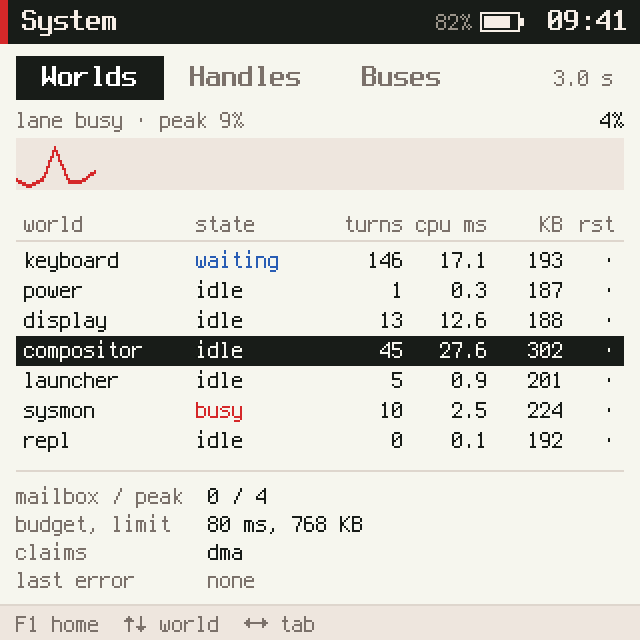
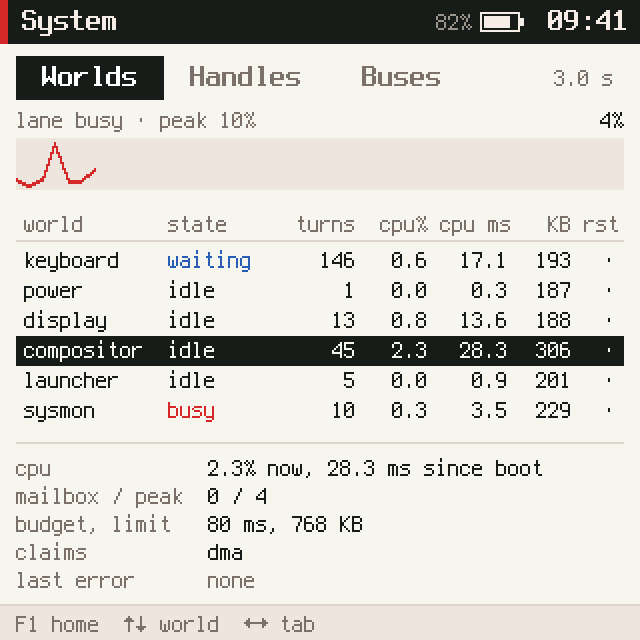
System app: cpu% per world; counters that never overflow their column
Reported on the device: once the turns counter grew past the simulator's
short runs, it painted over the cpu ms column. Two fixes:
- compositor: a right-aligned table cell wider than its column starts at the
  column's left edge and is cut with an ellipsis, never drawn over its neighbour;
- sysmon: turns and cpu ms use at most five characters (12.3k, 1.2M).
And a cpu% column: each world's share of the time since the last sample, so
per-world CPU use is visible next to the lane graph (the whole lane).

Host shots change for the System screens; 41-about changes because sysmon's
extra work moves the modelled lane figures.

diff --git a/picocalc-os/js/apps/sysmon.js b/picocalc-os/js/apps/sysmon.js
@@ -1,4 +1,5 @@
-// The system monitor: every world and what it costs, the handles the kernel has given out, and the
+// The system monitor: every world and what it costs (cpu% is its share of the time since the last sample,
+// cpu ms its total since boot; the graph is the whole lane), the handles the kernel has given out, and the
 // buses. It reads the kernel's tables through the sys.read claim, twice a second while in front.
 const TABS = ["Worlds", "Handles", "Buses"];
 const STATE_COLOR = { idle: "ink", busy: "accent", waiting: "blue", restarting: "warn", stopped: "accent" };
@@ -13,25 +14,46 @@ function sample(s) {
     s.i2c.push(bi[0]); s.spi.push(bi[1]);
     for (const a of [s.lane, s.i2c, s.spi]) while (a.length > HISTORY) a.shift();
   }
+  if (s.focused) {
+    s.worlds = sys.worlds(); s.handles = sys.handles();
+    // each world's share of the time since the last sample: its cpu ms over the wall ms in between
+    const dt = s.last ? st.t_ms - s.last.t_ms : 0;
+    for (const w of s.worlds) {
+      const was = s.cpu[w.name];
+      w.pct = dt > 0 && was !== undefined && w.cpu_ms >= was ? (w.cpu_ms - was) / dt : null;
+      s.cpu[w.name] = w.cpu_ms;
+    }
+  }
   s.last = st;
-  if (s.focused) { s.worlds = sys.worlds(); s.handles = sys.handles(); }
 }
 
 const pct = (v) => Math.round(100 * (v || 0)) + "%";
 const kb = (v) => (v >= 100 ? Math.round(v) : v.toFixed(1));
+// at most five characters, so a counter that runs for days still fits its column
+function short(v) {
+  if (v < 1000) return Number.isInteger(v) ? String(v) : v.toFixed(v < 99.95 ? 1 : 0);
+  if (v < 9999.5) return String(Math.round(v));
+  for (const [d, u] of [[1e3, "k"], [1e6, "M"], [1e9, "G"]]) {
+    const x = v / d;
+    if (x < 999.5) return (x < 99.95 ? x.toFixed(1) : String(Math.round(x))) + u;
+  }
+  return "many";
+}
+const share = (v) => (v == null ? "·" : v < 0.0995 ? (100 * v).toFixed(1) : Math.round(100 * v) + "");
 
 function worldsTab(s) {
   const rows = s.worlds.map((w) => ({
-    cells: [w.name, { s: w.state, color: STATE_COLOR[w.state] }, String(w.turns), w.cpu_ms.toFixed(1), kb(w.mem_kb), w.restarts ? String(w.restarts) : "·"],
+    cells: [w.name, { s: w.state, color: STATE_COLOR[w.state] }, short(w.turns), share(w.pct), short(w.cpu_ms), kb(w.mem_kb), w.restarts ? String(w.restarts) : "·"],
   }));
   const w = s.worlds[s.sel] || {};
   return [
     ui.spark(s.lane, { h: 26, max: Math.max(0.1, ...s.lane), points: HISTORY, label: `lane busy · peak ${pct(Math.max(0, ...s.lane))}`, right: pct(s.lane[s.lane.length - 1]), color: "accent" }),
     ui.gap(2),
-    ui.table([{ label: "world", w: 86 }, { label: "state", w: 70 }, { label: "turns", align: "right" }, { label: "cpu ms", align: "right" },
-      { label: "KB", align: "right", w: 38 }, { label: "rst", align: "right", w: 26 }], rows, { sel: s.sel, font: "s", lead: 3 }),
+    ui.table([{ label: "world", w: 72 }, { label: "state", w: 62 }, { label: "turns", align: "right" }, { label: "cpu%", align: "right", w: 36 },
+      { label: "cpu ms", align: "right" }, { label: "KB", align: "right", w: 32 }, { label: "rst", align: "right", w: 22 }], rows, { sel: s.sel, font: "s", lead: 3 }),
     ui.sep({ h: 5 }),
     ui.kv([
+      ["cpu", w.pct == null ? `${(w.cpu_ms || 0).toFixed(1)} ms since boot` : `${share(w.pct)}% now, ${(w.cpu_ms || 0).toFixed(1)} ms since boot`],
       ["mailbox / peak", `${w.mbox} / ${w.mbox_peak}`],
       ["budget, limit", `${w.budget_ms} ms, ${w.limit_kb} KB`],
       ["claims", (w.claims || []).join(" ") || "none"],
@@ -65,7 +87,7 @@ function busesTab(s) {
 
 app("sysmon")
   .title("System")
-  .state({ tab: 0, sel: 0, focused: false, worlds: [], handles: [], lane: [], i2c: [], spi: [], last: null })
+  .state({ tab: 0, sel: 0, focused: false, worlds: [], handles: [], lane: [], i2c: [], spi: [], last: null, cpu: {} })
   .onStart(sample)
   .on("focus", (s) => { s.focused = true; sample(s); })
   .on("blur", (s) => { s.focused = false; })

diff --git a/picocalc-os/js/system/compositor.js b/picocalc-os/js/system/compositor.js
@@ -275,8 +275,10 @@ function drawTable(fb, n, x, y, w, h) {
   const cell = (s, i, cx, ty, c) => {
     s = String(s ?? "");
     const tw = len(s) * fw(f);
-    const tx = cols[i].align === "right" ? cx + ws[i] - 4 - tw : cx + 4;
-    fb.text(tx, ty, s, f, c, ws[i] - 6);
+    // a right-aligned value wider than its column starts at the column's left edge and is cut, never drawn
+    // over the column before it
+    const tx = cols[i].align === "right" ? Math.max(cx + 2, cx + ws[i] - 4 - tw) : cx + 4;
+    fb.text(tx, ty, s, f, c, cx + ws[i] - 2 - tx);
   };
   if (n.head !== false) {
     let cx = x;
